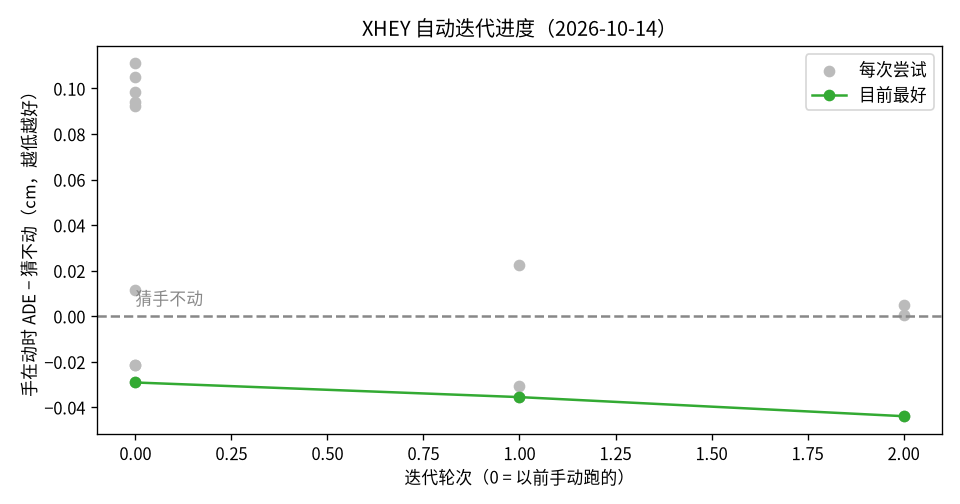
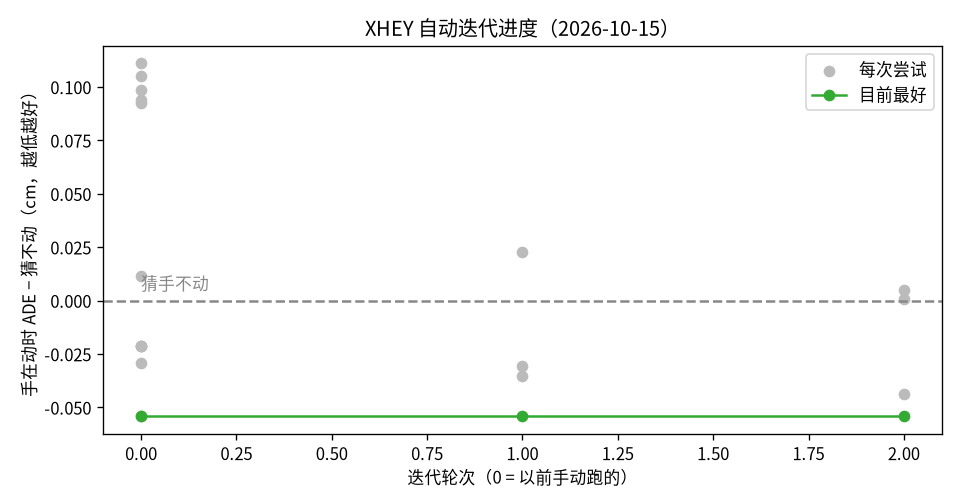
C7b 结果入账，并让队列实验带着 mix 入账
C7b 不在 QUEUE_CONFIG 里。入账时丢掉 mix 会落到默认的 iphone 对照组，把 Stera 臂记错。

diff --git a/tests/test_xhey_auto_iter.py b/tests/test_xhey_auto_iter.py
@@ -321,6 +321,110 @@ class ManyQueueRunning(unittest.TestCase):
         self.assertEqual(ids, ["C7", "C8"])
 
 
+class QueueRunningMix(unittest.TestCase):
+    """C7b 不在 QUEUE_CONFIG。正在跑的规格必须带着自己的 mix，不能记成 iphone 对照组。"""
+
+    def setUp(self):
+        self.tmp = tempfile.TemporaryDirectory()
+        root = Path(self.tmp.name)
+        self.ledger = root / "ledger.jsonl"
+        self.csv = root / "ledger.csv"
+        self.state = root / "auto_state.json"
+        self.queue = root / "queue.json"
+        self.chart = root / "progress.png"
+        self.csv.write_text("id,date,mix,overall_ade,moving_ade,vs_zero,status,source\r\n", encoding="utf-8")
+        self.patches = [
+            patch.object(ai, "LEDGER", self.ledger),
+            patch.object(ai, "CSV_PATH", self.csv),
+            patch.object(ai, "STATE", self.state),
+            patch.object(ai, "QUEUE_PATH", self.queue),
+            patch.object(ai, "CHART", self.chart),
+            patch.object(ai, "EXP", root),
+        ]
+        for p in self.patches:
+            p.start()
+        self.stera = "iphone+stera+xhey_rgb+aug"
+        self.control = "iphone+xhey_rgb+aug"
+        self.slug = "justinz2010/xhey-rsi-c7b-stera-all"
+
+    def tearDown(self):
+        for p in self.patches:
+            p.stop()
+        self.tmp.cleanup()
+
+    def _metrics(self):
+        def arm(overall, delta, moving, moving_delta):
+            return {
+                "ade_cm_pooled": overall, "ade_minus_zero_cm": delta,
+                "ade_minus_zero_ci95": [delta - 0.004, delta + 0.004],
+                "moving_ade_cm": moving, "moving_zero_ade_cm": moving - moving_delta,
+                "moving_minus_zero_cm": moving_delta,
+                "moving_minus_zero_ci95": [moving_delta - 0.006, moving_delta + 0.006],
+                "ade_cm_seed_std": 0.01,
+            }
+        return {"results": {
+            "zero": {"ade_cm_pooled": 7.227108386200057},
+            self.control: arm(7.221, -0.006, 10.364, -0.068),
+            self.stera: arm(7.232, 0.0045, 10.378, -0.054),
+        }}
+
+    def test_queue_running_c7b_records_its_mix_not_iphone_control(self):
+        q = _queue()
+        q["queue"].append({
+            "id": "C7b", "dir": "kaggle/rsi_c7b", "slug": self.slug,
+            "status": "running", "mix": self.stera,
+        })
+        self.queue.write_text(json.dumps(q), encoding="utf-8")
+        # 和线上一样：queue_running 当时没写 mix，配比在 queue.json 上。
+        self.state.write_text(json.dumps({
+            "running": None,
+            "queue_running": {"id": "C7b", "slug": self.slug, "launched": "2026-10-15 09:28"},
+        }), encoding="utf-8")
+        metrics = self._metrics()
+
+        def kaggle(*args, check=True):
+            if args[:2] == ("kernels", "output") and args[2] == self.slug:
+                dest = Path(args[4])
+                dest.mkdir(parents=True, exist_ok=True)
+                (dest / "metrics.json").write_text(json.dumps(metrics), encoding="utf-8")
+            return ""
+
+        def status(slug=None):
+            return "COMPLETE" if slug == self.slug else "UNKNOWN:none"
+
+        with patch.object(ai, "kernel_status", side_effect=status), \
+                patch.object(ai, "kaggle", side_effect=kaggle), \
+                patch.object(ai, "chart"), \
+                patch.object(ai, "report_charts"), \
+                patch.object(ai, "submit_queue_item"), \
+                patch.object(ai, "launch", side_effect=AssertionError("proposer must wait")):
+            rc = ai.step(type("A", (), {"no_launch": True, "k": 3})())
+        self.assertEqual(rc, 0)
+        rows = {r["id"]: r for r in ai.load_ledger()}
+        self.assertEqual(rows["C7b"]["config"]["mix"], self.stera)
+        self.assertAlmostEqual(rows["C7b"]["delta_moving_cm"], -0.054)
+        self.assertAlmostEqual(rows["C7b"]["moving_ade_cm"], 10.378)
+        self.assertNotAlmostEqual(rows["C7b"]["delta_moving_cm"], -0.068)
+        csv = self.csv.read_text(encoding="utf-8")
+        self.assertIn("iphone+stera+xhey_rgb+aug,7.2320,10.3780,0.0045,", csv)
+        self.assertNotIn("10.3640", csv)
+
+    def test_submit_queue_item_stores_mix_on_queue_running(self):
+        item = {"id": "C7b", "dir": "kaggle/rsi_c7b", "slug": self.slug,
+                "status": "ready", "mix": self.stera}
+        self.queue.write_text(json.dumps({"queue": [item]}), encoding="utf-8")
+        self.state.write_text(json.dumps({"running": None}), encoding="utf-8")
+        with patch.object(ai, "kaggle", return_value="pushed"):
+            ai.submit_queue_item(dict(item))
+        saved = json.loads(self.state.read_text(encoding="utf-8"))
+        self.assertEqual(saved["queue_running"]["id"], "C7b")
+        self.assertEqual(saved["queue_running"]["slug"], self.slug)
+        self.assertEqual(saved["queue_running"]["mix"], self.stera)
+        queued = json.loads(self.queue.read_text(encoding="utf-8"))["queue"][0]
+        self.assertEqual(queued["status"], "running")
+        self.assertEqual(queued["mix"], self.stera)
+
+
 class TrainFlags(unittest.TestCase):
     def test_stera_di_and_tune_flags(self):
         src = (ROOT / "scripts" / "train_xhey.py").read_text(encoding="utf-8")

diff --git a/scripts/xhey_auto_iter.py b/scripts/xhey_auto_iter.py
@@ -385,8 +385,10 @@ def submit_queue_item(item):
     print("提交固定候选 %s → %s（先于提议器）" % (item.get("id"), item.get("slug")))
     print(kaggle("kernels", "push", "-p", str(path)).strip())
     set_queue_status(item["id"], "running")
+    spec = _spec_from_queue_item(item)
     state = load_state()
     state["queue_running"] = {"id": item.get("id"), "slug": item.get("slug"),
+                              "mix": spec["mix"],
                               "launched": datetime.now().strftime("%Y-%m-%d %H:%M")}
     save_state(state)
 
@@ -489,9 +491,21 @@ def queue_running_items(state=None):
 
 
 def _spec_from_queue_item(item):
+    """入账用的规格。mix 以这条正在跑的记录为准，否则用 queue.json / QUEUE_CONFIG。
+
+    C7b 不在 QUEUE_CONFIG 里。丢掉 mix 时会落到默认的 iphone+xhey_rgb+aug，
+    把 Stera 臂记成 iphone 对照组。
+    """
     cfg = dict(DEFAULT, **QUEUE_CONFIG.get(item.get("id"), {}))
+    if not item.get("mix") and not (item.get("config") or {}).get("mix"):
+        for queued in load_queue().get("queue", []):
+            if queued.get("id") == item.get("id") and queued is not item and queued.get("mix"):
+                cfg["mix"] = queued["mix"]
+                break
     if item.get("config"):
         cfg.update(item["config"])
+    if item.get("mix"):
+        cfg["mix"] = item["mix"]
     return {"id": item.get("id"), "slug": item.get("slug"), "mix": cfg["mix"], "config": cfg}
 
 

diff --git a/experiments/report/C7b/README.md b/experiments/report/C7b/README.md
@@ -1,0 +1,7 @@
+# C7b
+
+![](ade.png)
+![](per_clip.png)
+![](horizon.png)
+![](loss_curves.png)
+![](trajectory.png)
